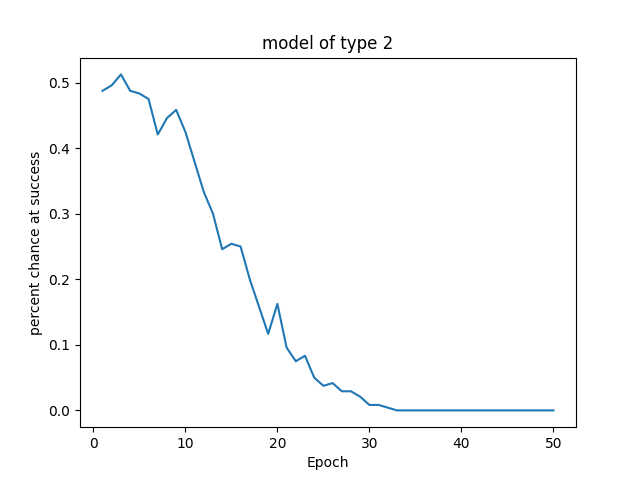
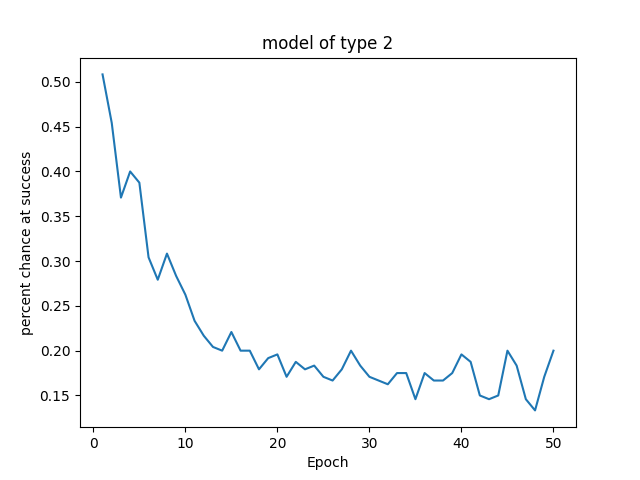
using tanh

diff --git a/main.py b/main.py
@@ -35,7 +35,7 @@ class Participant(Agent):
         self.d = d
         with self:
             self.choice = Choose("choice", p, (d.io, d.val), mode=mode)
-            self.path1 = Diva('path1', p=p, h=h, s1=(d.io, d.val), layers=[2], train=Train.ALL, lr=1)
+            self.path1 = Diva('path1', p=p, h=h, s1=(d.io, d.val), layers=[2], afunc=Tanh(), train=Train.ALL, lr=1)
             self.diva1 = divaCost('path1.learn', s=(d.io, d.val))
             self.diva2 = divaCost('path2.learn', s=(d.io, d.val))
             self.input = Input("input", (d.io, d.val))
